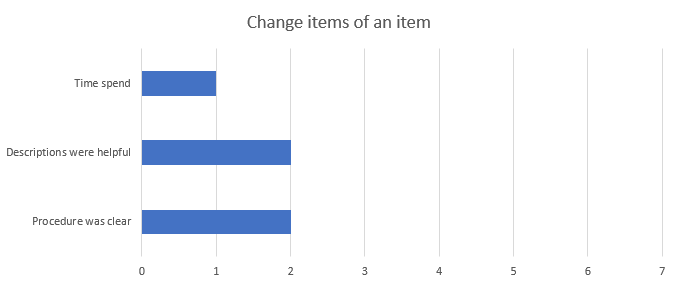
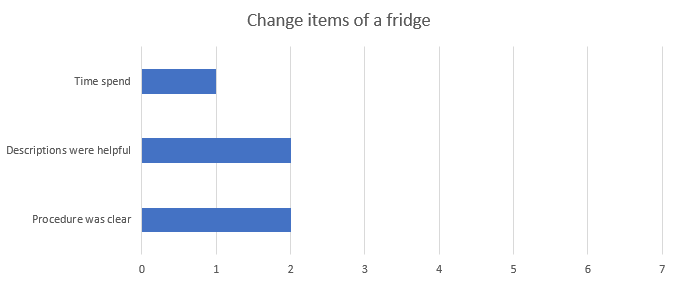
Add test extension

diff --git a/blogs/test_extension/test_extension.md b/blogs/test_extension/test_extension.md
@@ -1,0 +1,24 @@
+# Update - User test
+After realeasing our app as an alpha to selected users, we handed out a short questionare about our app. But we know that everyone hates long questionaires. We limited ourselves to three short questions that we apply to different parts of our app. The three questions are:
+- Procedure was clear
+- Descriptions were helpful
+- Time spend
+<br/>
+
+We asked these questions about the following parts of our app.
+- Login / Register
+- Creating a fridge
+- Adding items to a fridge
+- Change items of a fridge
+<br/>
+
+These questions can be answerd from 1 to 7. 1 being good, 7 being bad and 4 being neutral.
+
+<br/>
+
+!["User / Register"](./user_test_register_login.PNG)
+!["Creating a fridge"](./user_test_creating_fridge.PNG)
+!["Adding an item to a fridge"](./user_test_new_item.PNG)
+!["Change an item of a fridge"](./user_test_change_item.PNG)
+
+The questionare shows that we achieved a good usability and only need to improve descriptions when adding items to a fridge. We are really happy with the outcome of this questionare and are eager to hear your feedback once we release officialy.  
